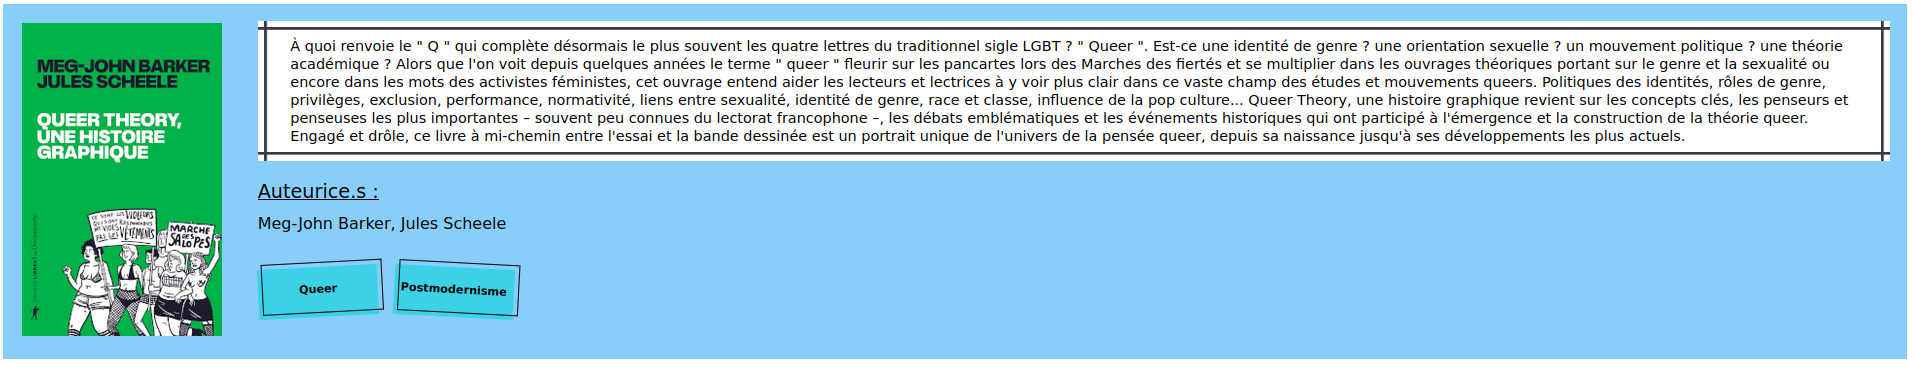
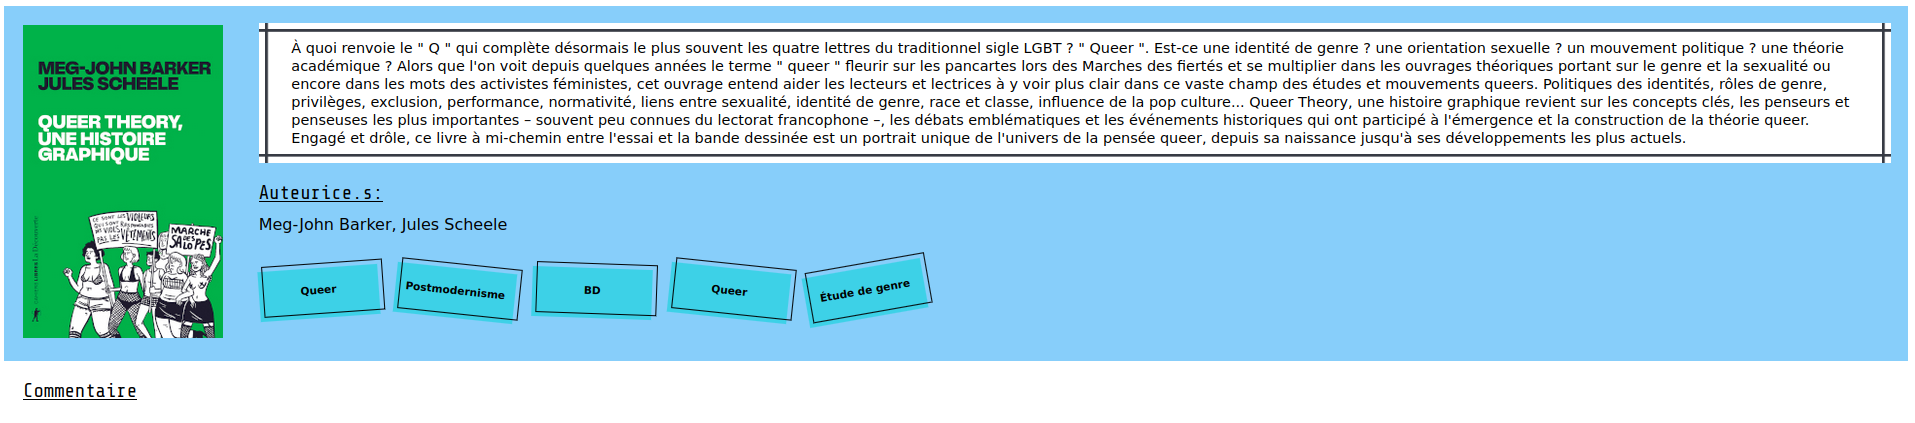
added blur on tag list ends. Needs middle blur

diff --git a/bookshelf/static/js/index.js b/bookshelf/static/js/index.js
@@ -1,31 +1,35 @@
 localStorage ["Tags"] = JSON.stringify({"active": []})
 
+const TagList = document.getElementById ("TagList");
+TagList.classList.toggle ("Right_Blur", true);
+
 function ToogleTag (event) {
 
     clickedTag = event.id;
+    TagObject = document.getElementById (clickedTag);
 
-    if (localStorage ["Tags"] != undefined) {
+    if (localStorage ["Tags"] == undefined) {
 
-        Tags = JSON.parse (localStorage ["Tags"]);
+        localStorage ["Tags"] = JSON.stringify ({"active": [clickedTag]});
+        TagObject.style.backgroundColor = "#d3d3d3";
 
-        if (!Tags ["active"].includes (clickedTag)) {
-            Tags ["active"].push (clickedTag);
-            TagObject = document.getElementById (clickedTag);
-            TagObject.style.backgroundColor = "#d3d3d3";
+        return;
+    }
 
-        } else {
-            Tags ["active"] = Tags ["active"].filter (item => item !== clickedTag);
-            TagObject = document.getElementById (clickedTag);
-            TagObject.style.backgroundColor = "#FFFFFF";
-        }
-        localStorage ["Tags"] = JSON.stringify (Tags);
+    Tags = JSON.parse (localStorage ["Tags"]);
+
+    if (!Tags ["active"].includes (clickedTag)) {
+
+        Tags ["active"].push (clickedTag);
+        TagObject.style.backgroundColor = "#d3d3d3";
 
     } else {
 
-        localStorage ["Tags"] = JSON.stringify ({"active": [clickedTag]})
+        Tags ["active"] = Tags ["active"].filter (item => item !== clickedTag);
+        TagObject.style.backgroundColor = "#FFFFFF";
     }
 
-    console.log (localStorage ["Tags"]);
+    localStorage ["Tags"] = JSON.stringify (Tags);
 
 }
 
@@ -43,6 +47,27 @@ function ClearTags () {
         }
     }
     localStorage ["Tags"] = JSON.stringify ({"active": []});
+}
 
-    console.log (localStorage ["Tags"]);
+function ToogleBlurryEnd () {
+
+    const TagList = document.getElementById ("TagList");
+    const w = TagList.clientWidth;
+    const over = TagList.scrollWidth - w;
+
+    TagList.classList.toggle ("Left_Blur", true);
+    TagList.classList.toggle ("Right_Blur", true);
+
+    if(TagList.scrollLeft == over) {
+
+        TagList.classList.toggle ("Left_Blur", true);
+        TagList.classList.toggle ("Right_Blur", false);
+
+
+    } else if(TagList.scrollLeft == 0) {
+
+        TagList.classList.toggle ("Left_Blur", false);
+        TagList.classList.toggle ("Right_Blur", true);
+
+    }
 }

diff --git a/bookshelf/templates/index.html b/bookshelf/templates/index.html
@@ -40,7 +40,7 @@
                 <div id="ClearDiv">
                     <button class="button-54 ClearButton" onclick="ClearTags()"> Effacer tout </button>
                 </div>
-                <div id="TagList">
+                <div id="TagList" onscroll="ToogleBlurryEnd()">
                     {% if tags %}
                         {% for T in tags %}
                             <button id="{{ T.TagName | cut:" " }}" class="button-54" onclick="ToogleTag( {{ T.TagName | cut:" " }} )"> {{ T.TagName }} </button>

diff --git a/bookshelf/static/css/index.css b/bookshelf/static/css/index.css
@@ -34,9 +34,24 @@
     display: flex;
 }
 
+.Left_Blur {
+    mask-image: linear-gradient(90deg, transparent 6px, white 66px);
+}
+
+.Right_Blur {
+    mask-image: linear-gradient(-90deg, transparent 6px, white 66px);
+}
+
+.Middle_Blur {
+
+    mask-image: linear-gradient(transparent 6px, white 66px) left,
+                linear-gradient(transparent 6px, white 66px) right;
+
+}
+
 #TagList {
 
-    width: 54.5%;
+    width: 50%;
     height: 50px;
 
     margin-left: 1%;
